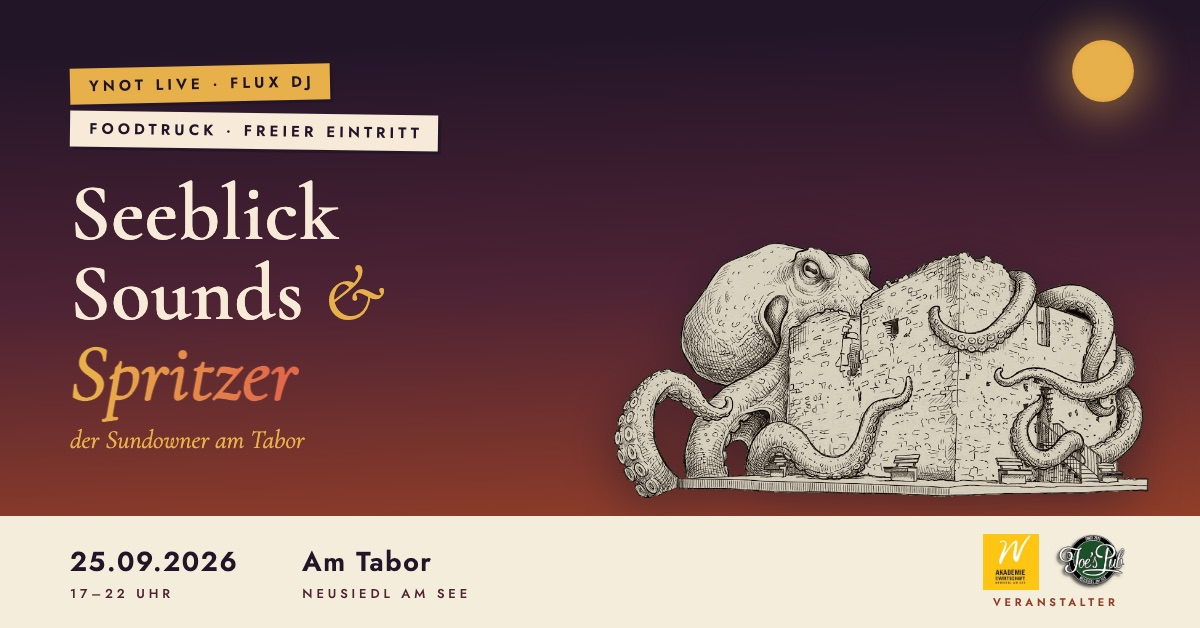
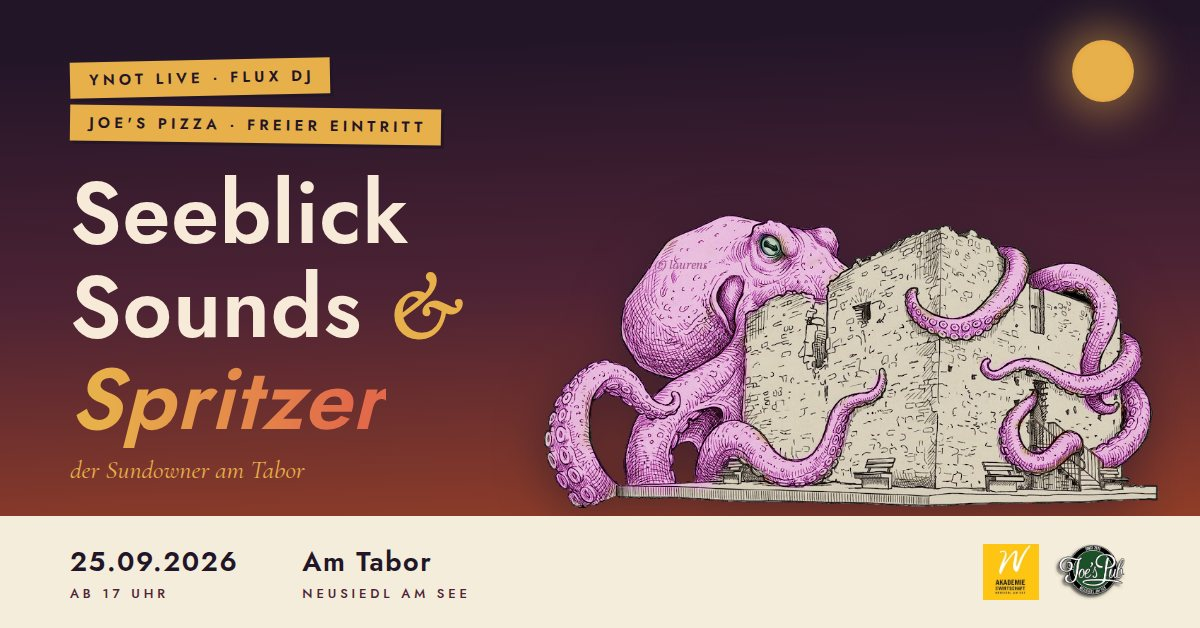
Medienkit-Bilder auf Stand: OG-Karten neu gebaut (ab 17 Uhr, Joe's Pizza, Oktopus)
- NEU scripts/gen-og-portrait.mjs: og-image.jpg (1200x1330) generativ statt
  handgebauter Altstand vom 8.9. — Sans-Headline mit Serifen-Spritzer wie die
  Website, Oktopus-Hero (mit Wasserzeichen), kein Veranstalter-Label,
  'ab 17 Uhr' + 'Joe's Pizza statt Foodtruck', Offerings-Zeile komplett im Frame
- gen-og.mjs (Landscape/twitter): Oktopus statt altem tabor.png, zweite Bar
  auch Gold, Veranstalter-Label weg, Chrome-Pfade Linux + PIL-Fallback statt sips-only
- share.html: Hero-Thumbnail zeigt jetzt sundowner-hero.png statt der alten
  Oktopus-losen tabor.png, OG-Downloads ?v=2
- og:image-Referenzen ?v=4 / twitter ?v=2 (index + partner)

diff --git a/index.html b/index.html
@@ -15,7 +15,7 @@
   <meta property="og:url" content="https://soundspritzer.at/">
   <meta property="og:title" content="SunDowner — 25.09.2026 · Am Tabor, Neusiedl am See">
   <meta property="og:description" content="Seeblick · Sounds & Spritzer — Open-Air-Event mit Livemusik, Joe’s Pizza & freiem Eintritt. 25.09.2026, ab 17 Uhr am Tabor.">
-  <meta property="og:image" content="https://soundspritzer.at/assets/og-image.jpg?v=3">
+  <meta property="og:image" content="https://soundspritzer.at/assets/og-image.jpg?v=4">
   <meta property="og:image:width" content="1200">
   <meta property="og:image:height" content="1330">
   <meta property="og:image:alt" content="SunDowner am Tabor — Seeblick, Sounds & Spritzer. 25.09.2026, ab 17 Uhr, Neusiedl am See. Musik, Joe’s Pizza & Spritzerbar.">
@@ -26,7 +26,7 @@
   <meta name="twitter:title" content="SunDowner — 25.09.2026 · Am Tabor, Neusiedl am See">
   <meta name="twitter:description" content="Seeblick · Sounds & Spritzer — Open-Air-Event mit Livemusik, Joe’s Pizza & freiem Eintritt.">
   <!-- X center-croppt large cards auf ~2:1 → Landscape-Variante statt Portrait-Crop -->
-  <meta name="twitter:image" content="https://soundspritzer.at/assets/og-image-landscape.jpg?v=1">
+  <meta name="twitter:image" content="https://soundspritzer.at/assets/og-image-landscape.jpg?v=2">
 
   <!-- oEmbed-Discovery: CMS (z.B. WordPress) können die nackte URL automatisch
        zur Event-Karte umwandeln. Statisches JSON — Query-Params werden ignoriert,
@@ -73,7 +73,7 @@
         "addressCountry": "AT"
       }
     },
-    "image": ["https://soundspritzer.at/assets/og-image.jpg?v=3"],
+    "image": ["https://soundspritzer.at/assets/og-image.jpg?v=4"],
     "description": "Open-Air-Event mit Livemusik & DJ, Joe's Pizza und Spritzerbar. Freier Eintritt über Neusiedl am See.",
     "organizer": [
       {
@@ -231,7 +231,7 @@
           <a class="share-menu__item" href="https://www.facebook.com/sharer/sharer.php?u=https%3A%2F%2Fsoundspritzer.at%2F" target="_blank" rel="noopener">Facebook</a>
           <a class="share-menu__item" href="https://twitter.com/intent/tweet?text=SunDowner%20%E2%80%94%20Seeblick%2C%20Sounds%20%26%20Spritzer%20%C2%B7%2025.09.2026%2C%2017%E2%80%9322%20Uhr%20%C2%B7%20Am%20Tabor%2C%20Neusiedl%20am%20See&url=https%3A%2F%2Fsoundspritzer.at%2F" target="_blank" rel="noopener">X</a>
           <a class="share-menu__item" href="mailto:?subject=SunDowner%20am%20Tabor%20%E2%80%94%2025.09.2026&body=Seeblick%2C%20Sounds%20%26%20Spritzer%20%E2%80%94%2025.09.2026%2C%2017%E2%80%9322%20Uhr%2C%20Am%20Tabor%2C%20Neusiedl%20am%20See.%20https%3A%2F%2Fsoundspritzer.at%2F">E-Mail</a>
-          <a class="share-menu__item" href="assets/og-image.jpg" download="sundowner-instagram.jpg">Bild für Instagram</a>
+          <a class="share-menu__item" href="assets/og-image.jpg?v=2" download="sundowner-instagram.jpg">Bild für Instagram</a>
           <span class="share-menu__sep" role="presentation"></span>
           <a class="share-menu__item" href="https://calendar.google.com/calendar/render?action=TEMPLATE&amp;text=SunDowner%20%E2%80%94%20Seeblick%2C%20Sounds%20%26%20Spritzer&amp;dates=20260925T150000Z%2F20260925T200000Z&amp;details=Open-Air%20am%20Tabor%3A%20YnoT%20live%2C%20DJ%20Flux%2C%20Joe%27s%20Pizza%2C%20Spritzerbar.%20Freier%20Eintritt.%20https%3A%2F%2Fsoundspritzer.at%2F&amp;location=Ruine%20Tabor%2C%20Am%20Tabor%2C%207100%20Neusiedl%20am%20See" target="_blank" rel="noopener">Termin: Google Kalender</a>
           <a class="share-menu__item" href="/assets/sundowner.ics" download="sundowner.ics">Termin: iPhone / Outlook (.ics)</a>

diff --git a/share.html b/share.html
@@ -42,12 +42,12 @@
     <section class="kit-block" aria-labelledby="kit-bilder">
       <h2 class="kit-title" id="kit-bilder">2 · Bilder</h2>
       <div class="kit-thumb-row">
-        <a class="kit-thumb" href="assets/og-image.jpg" download="sundowner-share.jpg">
-          <img src="assets/og-image.jpg" alt="Event-Karte: SunDowner mit Tabor-Oktopus, Datum und Offerings" loading="lazy" width="1200" height="1330">
+        <a class="kit-thumb" href="assets/og-image.jpg?v=2" download="sundowner-share.jpg">
+          <img src="assets/og-image.jpg?v=2" alt="Event-Karte: SunDowner mit Tabor-Oktopus, Datum und Offerings" loading="lazy" width="1200" height="1330">
           <span>Event-Karte · JPG ↓</span>
         </a>
         <a class="kit-thumb" href="assets/sundowner-hero.png?v=2" download="sundowner-hero.png">
-          <img src="assets/tabor.png" alt="Hero-Illustration: Tabor-Ruine mit Oktopus" loading="lazy" width="877" height="416">
+          <img src="assets/sundowner-hero.png?v=2" alt="Hero-Illustration: Oktopus-Tabor mit (c) laurens" loading="lazy" width="877" height="416">
           <span>Hero-Illustration · PNG ↓</span>
         </a>
       </div>

diff --git a/partner.html b/partner.html
@@ -15,12 +15,12 @@
   <meta property="og:url" content="https://soundspritzer.at/partner">
   <meta property="og:title" content="Unterstützen — SunDowner · 25.09.2026 · Am Tabor">
   <meta property="og:description" content="Als Unternehmen sponsern oder privat unterstützen — Kachel, Logo & Nennung am SunDowner am Tabor.">
-  <meta property="og:image" content="https://soundspritzer.at/assets/og-image.jpg?v=3">
+  <meta property="og:image" content="https://soundspritzer.at/assets/og-image.jpg?v=4">
   <meta property="og:image:type" content="image/jpeg">
   <meta property="og:locale" content="de_AT">
   <meta name="twitter:card" content="summary_large_image">
   <!-- X center-croppt large cards auf ~2:1 → Landscape-Variante statt Portrait-Crop -->
-  <meta name="twitter:image" content="https://soundspritzer.at/assets/og-image-landscape.jpg?v=1">
+  <meta name="twitter:image" content="https://soundspritzer.at/assets/og-image-landscape.jpg?v=2">
 
   <link rel="canonical" href="https://soundspritzer.at/partner">
   <link rel="icon" href="/favicon.ico" sizes="48x48">
